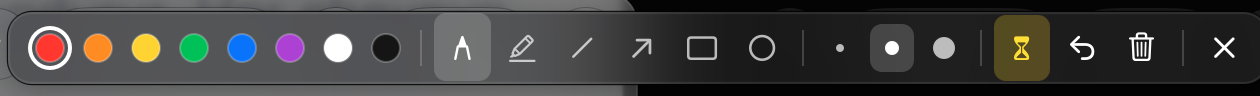
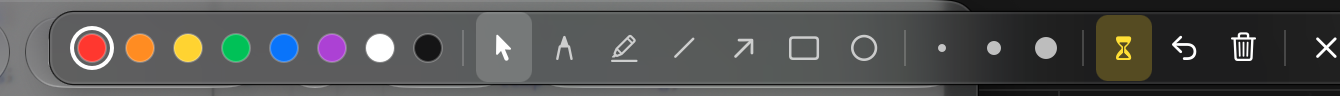
Add mouse mode: click through to apps while ink and toolbar stay
- Cursor button on the toolbar (or M) switches to click-through mode;
  picking a pen, color or size returns to drawing
- Global shortcut from mouse mode goes back to drawing; toolbar X exits
- scrawl://mouse URL action
- Track the last active app via NSWorkspace notifications so focus is
  always handed back correctly; retry activation if macOS declines it
- Toolbar keeps its dragged position when switching modes

diff --git a/Sources/OverlayController.swift b/Sources/OverlayController.swift
@@ -42,14 +42,23 @@ final class OverlayWindow: NSWindow {
 
 @MainActor
 final class OverlayController {
-    private(set) var isDrawing = false
+    enum Mode { case off, drawing, pointer }
+
+    /// `.pointer` = "mouse mode": ink and toolbar stay on screen, clicks go to the apps below.
+    private(set) var mode: Mode = .off
+    var isDrawing: Bool { mode == .drawing }
     private(set) var cursor: NSCursor = .crosshair
-    var onDrawingChanged: ((Bool) -> Void)?
+    var onModeChanged: ((Mode) -> Void)?
 
     private var windows: [OverlayWindow] = []
     private lazy var toolbar = ToolbarPanel(controller: self)
     private var fadeWork: DispatchWorkItem?
-    private var previousApp: NSRunningApplication?
+    /// Last app other than Scrawl that was active, kept up to date by an
+    /// NSWorkspace notification (event-driven, no polling).
+    private var previousApp: NSRunningApplication? = {
+        let front = NSWorkspace.shared.frontmostApplication
+        return front == NSRunningApplication.current ? nil : front
+    }()
     private var seqCounter = 0
     private var board: Board = .none
     private var scrollAccumulator: CGFloat = 0
@@ -66,11 +75,16 @@ final class OverlayController {
         nc.addObserver(forName: .scrawlSettingsChanged, object: nil, queue: .main) { [weak self] _ in
             MainActor.assumeIsolated { self?.settingsChanged() }
         }
+        NSWorkspace.shared.notificationCenter.addObserver(forName: NSWorkspace.didActivateApplicationNotification, object: nil, queue: .main) { [weak self] note in
+            guard let app = note.userInfo?[NSWorkspace.applicationUserInfoKey] as? NSRunningApplication,
+                  app != NSRunningApplication.current else { return }
+            MainActor.assumeIsolated { self?.previousApp = app }
+        }
         // If the user Cmd-Tabs away while drawing, get out of the way.
         nc.addObserver(forName: NSApplication.didResignActiveNotification, object: nil, queue: .main) { [weak self] _ in
             MainActor.assumeIsolated {
                 guard let self, self.isDrawing else { return }
-                self.setDrawing(false, restoreFocus: false)
+                self.setMode(.off, restoreFocus: false)
             }
         }
     }
@@ -116,15 +130,18 @@ final class OverlayController {
 
     // MARK: Mode
 
-    func toggle() { setDrawing(!isDrawing) }
+    /// Global shortcut: drawing → off; off or mouse mode → drawing.
+    func toggle() { setMode(mode == .drawing ? .off : .drawing) }
+    func setDrawing(_ on: Bool) { setMode(on ? .drawing : .off) }
+    func togglePointer() { setMode(mode == .pointer ? .drawing : .pointer) }
 
-    func setDrawing(_ on: Bool, restoreFocus: Bool = true) {
-        guard on != isDrawing else { return }
-        isDrawing = on
+    func setMode(_ new: Mode, restoreFocus: Bool = true) {
+        let old = mode
+        guard new != old else { return }
+        mode = new
 
-        if on {
-            let front = NSWorkspace.shared.frontmostApplication
-            previousApp = front == NSRunningApplication.current ? nil : front
+        switch new {
+        case .drawing:
             for w in windows {
                 w.ignoresMouseEvents = false
                 w.orderFrontRegardless()
@@ -139,26 +156,41 @@ final class OverlayController {
                 guard let self, self.isDrawing else { return }
                 self.cursor.set()
             }
-        } else {
+            // macOS 14+ may decline activation once; retry so Esc and keys work.
+            DispatchQueue.main.asyncAfter(deadline: .now() + 0.2) { [weak self] in
+                guard let self, self.isDrawing, !NSApp.isActive else { return }
+                NSApp.activate(ignoringOtherApps: true)
+                self.focusWindowUnderMouse()
+                self.cursor.set()
+            }
+
+        case .pointer, .off:
             for w in windows {
                 w.canvas.cancelStroke()
                 w.ignoresMouseEvents = true
             }
-            toolbar.hide()
             setBoard(.none)
-            if Settings.shared.clearOnExit { clearAll() }
+            if new == .off {
+                toolbar.hide()
+                if Settings.shared.clearOnExit { clearAll() }
+            } else if Settings.shared.showToolbar, let screen = NSScreen.withMouse {
+                toolbar.show(on: screen)
+            }
             updateVisibility()
-            NSCursor.arrow.set()
-            if restoreFocus {
+            if old == .drawing { NSCursor.arrow.set() }
+            // Hand focus back to the app the user was in (also covers being
+            // activated by a scrawl:// URL).
+            if restoreFocus, NSApp.isActive {
                 if let app = previousApp, !app.isTerminated {
                     app.activate(options: [])
                 } else {
                     NSApp.deactivate()
                 }
             }
-            previousApp = nil
+            if new == .pointer { Toast.shared.show("Mouse mode: pick a pen to draw again") }
         }
-        onDrawingChanged?(on)
+        toolbar.refresh()
+        onModeChanged?(new)
     }
 
     // MARK: Strokes
@@ -230,7 +262,7 @@ final class OverlayController {
     private func settingsChanged() {
         refreshCursor()
         toolbar.refresh()
-        if isDrawing {
+        if mode != .off {
             let wantToolbar = Settings.shared.showToolbar
             if wantToolbar, !toolbar.isVisible, let screen = windowUnderMouse()?.screen {
                 toolbar.show(on: screen)
@@ -313,6 +345,7 @@ final class OverlayController {
         case "w": toggleBoard(.whiteboard)
         case "b": toggleBoard(.blackboard)
         case "t": s.showToolbar.toggle()
+        case "m", "v": setMode(.pointer)
         default: break
         }
         return true

diff --git a/Sources/AppDelegate.swift b/Sources/AppDelegate.swift
@@ -10,7 +10,7 @@ final class AppDelegate: NSObject, NSApplicationDelegate, NSMenuDelegate {
 
     func applicationDidFinishLaunching(_ notification: Notification) {
         overlay = OverlayController()
-        overlay.onDrawingChanged = { [weak self] _ in self?.updateStatusIcon() }
+        overlay.onModeChanged = { [weak self] _ in self?.updateStatusIcon() }
 
         statusItem = NSStatusBar.system.statusItem(withLength: NSStatusItem.squareLength)
         menu.delegate = self
@@ -25,7 +25,7 @@ final class AppDelegate: NSObject, NSApplicationDelegate, NSMenuDelegate {
         }
     }
 
-    // MARK: URL scheme: scrawl://toggle | start | stop | clear | undo
+    // MARK: URL scheme: scrawl://toggle | start | stop | mouse | clear | undo
 
     func application(_ application: NSApplication, open urls: [URL]) {
         for url in urls where url.scheme?.lowercased() == "scrawl" {
@@ -33,6 +33,7 @@ final class AppDelegate: NSObject, NSApplicationDelegate, NSMenuDelegate {
             case "toggle": overlay.toggle()
             case "start", "on": overlay.setDrawing(true)
             case "stop", "off": overlay.setDrawing(false)
+            case "mouse", "pointer": overlay.setMode(.pointer)
             case "clear": overlay.clearAll()
             case "undo": overlay.undo()
             default: break
@@ -60,7 +61,7 @@ final class AppDelegate: NSObject, NSApplicationDelegate, NSMenuDelegate {
     // MARK: Status item
 
     private func updateStatusIcon() {
-        let name = overlay.isDrawing ? "pencil.tip.crop.circle.fill" : "pencil.tip.crop.circle"
+        let name = overlay.mode == .off ? "pencil.tip.crop.circle" : "pencil.tip.crop.circle.fill"
         let image = NSImage(systemSymbolName: name, accessibilityDescription: "Scrawl")
         image?.isTemplate = true
         statusItem.button?.image = image
@@ -72,10 +73,19 @@ final class AppDelegate: NSObject, NSApplicationDelegate, NSMenuDelegate {
         let s = Settings.shared
         let preset = s.shortcut
 
-        let toggle = item(overlay.isDrawing ? "Stop Drawing" : "Start Drawing", #selector(toggleDrawing))
+        let toggleTitle: String
+        switch overlay.mode {
+        case .off: toggleTitle = "Start Drawing"
+        case .drawing: toggleTitle = "Stop Drawing"
+        case .pointer: toggleTitle = "Resume Drawing"
+        }
+        let toggle = item(toggleTitle, #selector(toggleDrawing))
         toggle.keyEquivalent = preset.key
         toggle.keyEquivalentModifierMask = preset.flags
         menu.addItem(toggle)
+        if overlay.mode == .pointer {
+            menu.addItem(item("Stop Drawing", #selector(stopDrawing)))
+        }
 
         let clear = item("Clear Drawings", #selector(clearAll))
         clear.keyEquivalent = "c"
@@ -179,6 +189,7 @@ final class AppDelegate: NSObject, NSApplicationDelegate, NSMenuDelegate {
         // Let the menu finish closing before we take over the screen.
         DispatchQueue.main.async { self.overlay.toggle() }
     }
+    @objc private func stopDrawing() { overlay.setDrawing(false) }
     @objc private func clearAll() { overlay.clearAll() }
     @objc private func selectTool(_ sender: NSMenuItem) { Settings.shared.tool = Tool.allCases[sender.tag] }
     @objc private func selectColor(_ sender: NSMenuItem) { Settings.shared.colorIndex = sender.tag }
@@ -213,10 +224,11 @@ final class AppDelegate: NSObject, NSApplicationDelegate, NSMenuDelegate {
         alert.messageText = "Scrawl Shortcuts"
         alert.informativeText = """
         Global
-          \(p.display)    Start / stop drawing
+          \(p.display)    Start / stop drawing (from mouse mode: back to drawing)
           \(p.clearDisplay)    Clear all drawings
 
         While drawing
+          M    Mouse mode: click through, ink and toolbar stay
           P  H  L  A  R  O    Pen, Highlighter, Line, Arrow, Rectangle, Ellipse
           1 – 8    Red, Orange, Yellow, Green, Blue, Purple, White, Black
           [  ]  or scroll    Thinner / thicker

diff --git a/Sources/Toolbar.swift b/Sources/Toolbar.swift
@@ -78,6 +78,7 @@ final class ToolbarPanel: NSPanel {
     private var toolButtons: [Tool: NSButton] = [:]
     private var sizeDots: [SizeDotView] = []
     private var fadeButton: NSButton!
+    private var pointerButton: NSButton!
     private static let originKey = "toolbarOrigin"
 
     init(controller: OverlayController) {
@@ -119,12 +120,17 @@ final class ToolbarPanel: NSPanel {
         for (i, color) in Palette.colors.enumerated() {
             let v = SwatchView(color: color)
             v.toolTip = "\(Palette.names[i]) (\(i + 1))"
-            v.onClick = { Settings.shared.colorIndex = i }
+            v.onClick = { [weak self] in
+                Settings.shared.colorIndex = i
+                self?.controller?.setDrawing(true)
+            }
             swatches.append(v)
             stack.addArrangedSubview(v)
         }
         stack.addArrangedSubview(separator())
 
+        pointerButton = iconButton("cursorarrow", tip: "Mouse: click through, keep the ink (M)", action: #selector(pointerTapped))
+        stack.addArrangedSubview(pointerButton)
         for (i, tool) in Tool.allCases.enumerated() {
             let b = iconButton(tool.symbol, tip: "\(tool.title) (\(tool.key.uppercased()))", action: #selector(toolTapped(_:)))
             b.tag = i
@@ -136,7 +142,10 @@ final class ToolbarPanel: NSPanel {
         for (width, diameter) in [(CGFloat(3), CGFloat(4)), (6, 7), (12, 11)] {
             let v = SizeDotView(width: width, diameter: diameter)
             v.toolTip = "Stroke size ([ and ], or scroll)"
-            v.onClick = { Settings.shared.width = width }
+            v.onClick = { [weak self] in
+                Settings.shared.width = width
+                self?.controller?.setDrawing(true)
+            }
             sizeDots.append(v)
             stack.addArrangedSubview(v)
         }
@@ -203,11 +212,13 @@ final class ToolbarPanel: NSPanel {
     func refresh() {
         let s = Settings.shared
         for (i, v) in swatches.enumerated() { v.isSelected = i == s.colorIndex }
-        for (tool, b) in toolButtons {
-            let selected = tool == s.tool
+        let pointer = controller?.mode == .pointer
+        func mark(_ b: NSButton, _ selected: Bool) {
             b.layer?.backgroundColor = selected ? NSColor.white.withAlphaComponent(0.18).cgColor : nil
             b.contentTintColor = selected ? .white : NSColor.white.withAlphaComponent(0.7)
         }
+        mark(pointerButton, pointer)
+        for (tool, b) in toolButtons { mark(b, !pointer && tool == s.tool) }
         let nearest = sizeDots.min { abs($0.width - s.width) < abs($1.width - s.width) }
         for v in sizeDots { v.isSelected = v === nearest && abs(v.width - s.width) < 2 }
         fadeButton.layer?.backgroundColor = s.fadeEnabled ? NSColor.systemYellow.withAlphaComponent(0.25).cgColor : nil
@@ -216,6 +227,7 @@ final class ToolbarPanel: NSPanel {
 
     func show(on screen: NSScreen) {
         refresh()
+        if isVisible { return } // keep wherever the user dragged it
         let size = frame.size
         let vf = screen.visibleFrame
         var origin = NSPoint(x: vf.midX - size.width / 2, y: vf.maxY - size.height - 10)
@@ -233,7 +245,11 @@ final class ToolbarPanel: NSPanel {
         orderOut(nil)
     }
 
-    @objc private func toolTapped(_ sender: NSButton) { Settings.shared.tool = Tool.allCases[sender.tag] }
+    @objc private func pointerTapped() { controller?.togglePointer() }
+    @objc private func toolTapped(_ sender: NSButton) {
+        Settings.shared.tool = Tool.allCases[sender.tag]
+        controller?.setDrawing(true)
+    }
     @objc private func fadeTapped() { Settings.shared.fadeEnabled.toggle() }
     @objc private func undoTapped() { controller?.undo() }
     @objc private func clearTapped() { controller?.clearAll() }

diff --git a/README.md b/README.md
@@ -29,6 +29,7 @@ You're studying from slides, explaining something on a call, or recording a tuto
 
 ## Features
 
+- **Mouse mode, one click away.** The cursor button on the toolbar (or `M`) lets clicks go through to your apps while your drawings and the toolbar stay on screen. Click a pen, color or size to draw again.
 - **Temporary ink (auto-fade).** Strokes fade out together shortly after your *last* stroke, so you can write a whole word before it vanishes. Press `F` to switch to persistent ink.
 - **6 tools:** pen, highlighter, line, arrow, rectangle and ellipse. Hold `Shift` for 45° lines, squares and circles.
 - **8 colors** and adjustable stroke size (`[` `]` or scroll).
@@ -37,7 +38,7 @@ You're studying from slides, explaining something on a call, or recording a tuto
 - **Works everywhere:** all Spaces, full-screen apps, Keynote / PowerPoint / PDF presentations, and every connected display.
 - **Global hotkey** that needs no Accessibility or Input Monitoring permission.
 - **Menu bar only**, with no Dock icon and no windows in your way.
-- **URL scheme** for Shortcuts, Raycast, Alfred and Stream Deck: `scrawl://toggle`, `scrawl://start`, `scrawl://stop`, `scrawl://clear`, `scrawl://undo`.
+- **URL scheme** for Shortcuts, Raycast, Alfred and Stream Deck: `scrawl://toggle`, `scrawl://start`, `scrawl://stop`, `scrawl://mouse`, `scrawl://clear`, `scrawl://undo`.
 - **Launch at login** (macOS 13+).
 
 <p align="center">
@@ -93,11 +94,12 @@ The global shortcut can be changed from the menu bar icon (`⌃⇧D`, `⌥⇧D`,
 
 | Global | |
 |---|---|
-| `⌃⇧D` | Start / stop drawing |
+| `⌃⇧D` | Start / stop drawing (from mouse mode: back to drawing) |
 | `⌃⇧C` | Clear all drawings (works even when not drawing) |
 
 | While drawing | |
 |---|---|
+| `M` | Mouse mode: click through, ink and toolbar stay |
 | `P` `H` `L` `A` `R` `O` | Pen, Highlighter, Line, Arrow, Rectangle, Ellipse |
 | `1` – `8` | Red, Orange, Yellow, Green, Blue, Purple, White, Black |
 | `[` / `]` or scroll | Thinner / thicker |
@@ -108,6 +110,8 @@ The global shortcut can be changed from the menu bar icon (`⌃⇧D`, `⌥⇧D`,
 | `W` / `B` | Whiteboard / Blackboard background |
 | `T` | Show / hide the toolbar |
 | `Esc` | Stop drawing (cancels the current stroke first) |
+
+Need to click something mid-explanation? Hit the **cursor button** on the toolbar (or `M`). The canvas steps aside, so you can click, scroll and type in any app while your annotations stay visible. Click any pen, color or size on the toolbar (or press `⌃⇧D`) to keep drawing. The toolbar's ✕ closes everything.
 
 When you stop drawing, persistent ink **stays on screen** and you can click through it normally. Clear it with `⌃⇧C`, or turn on *Clear When Drawing Stops* in the menu.
 
